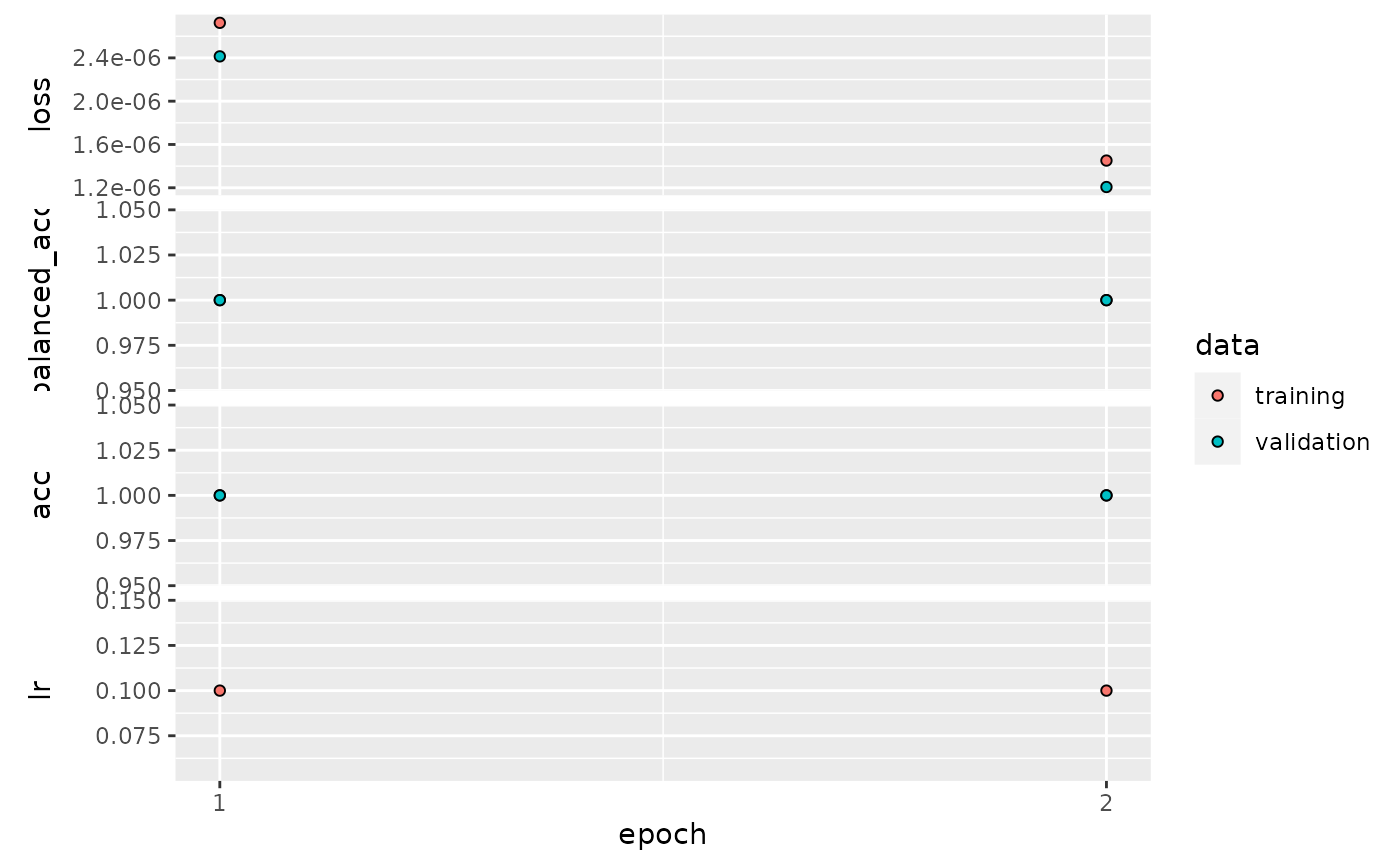
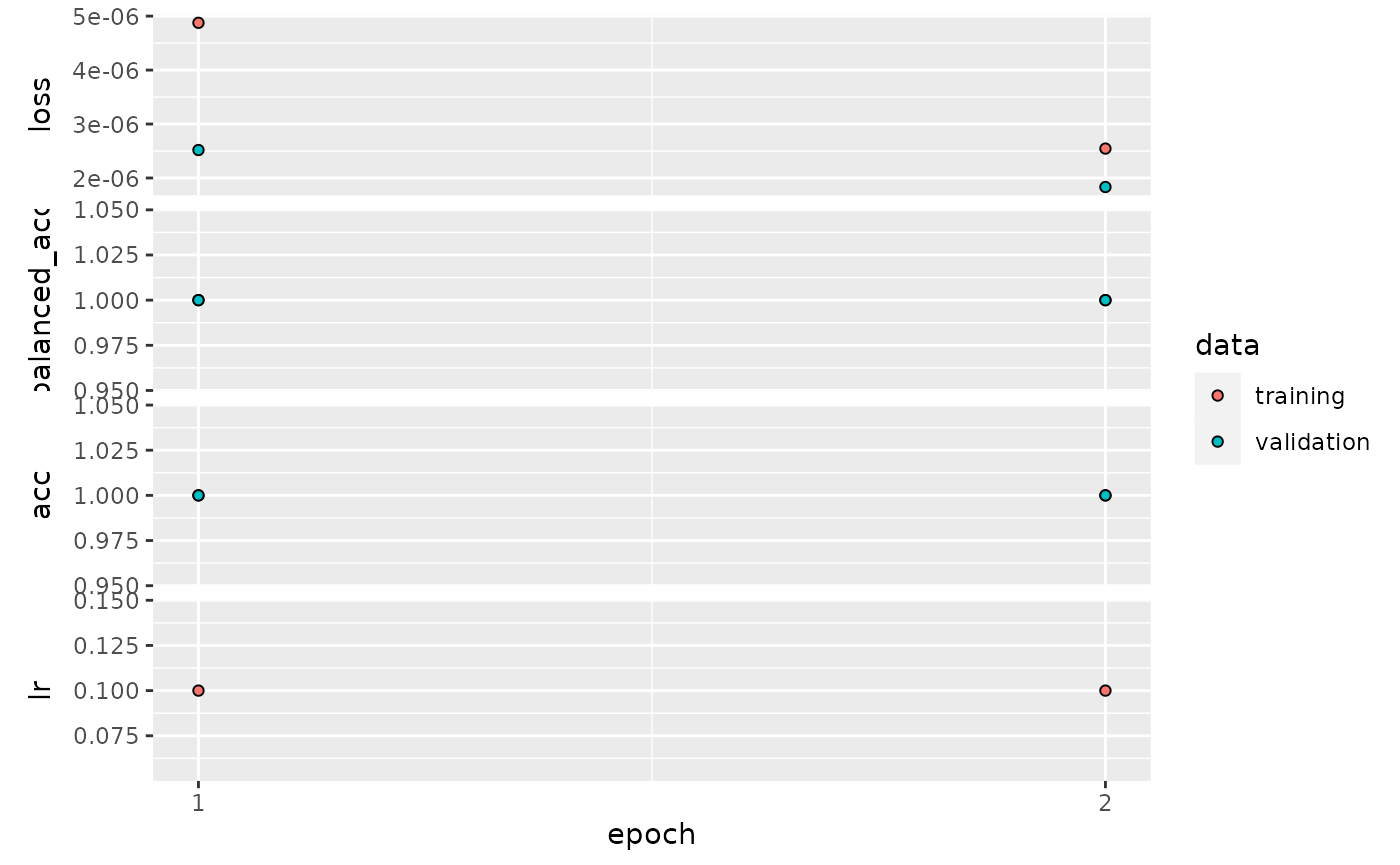
update documentation

diff --git a/docs/articles/getting_started.html b/docs/articles/getting_started.html
@@ -254,20 +254,20 @@ mark.out {
 <span><span class="co">## [[1]]$confusion_matrix</span></span>
 <span><span class="co">##             Truth</span></span>
 <span><span class="co">## Prediction   high_gc equal_dist</span></span>
-<span><span class="co">##   high_gc        381          2</span></span>
-<span><span class="co">##   equal_dist      18        397</span></span>
+<span><span class="co">##   high_gc        391         11</span></span>
+<span><span class="co">##   equal_dist       8        388</span></span>
 <span><span class="co">## </span></span>
 <span><span class="co">## [[1]]$accuracy</span></span>
-<span><span class="co">## [1] 0.9749373</span></span>
+<span><span class="co">## [1] 0.9761905</span></span>
 <span><span class="co">## </span></span>
 <span><span class="co">## [[1]]$categorical_crossentropy_loss</span></span>
-<span><span class="co">## [1] 0.09812773</span></span>
+<span><span class="co">## [1] 0.1279468</span></span>
 <span><span class="co">## </span></span>
 <span><span class="co">## [[1]]$AUC</span></span>
-<span><span class="co">## [1] 0.9986244</span></span>
+<span><span class="co">## [1] 0.9981596</span></span>
 <span><span class="co">## </span></span>
 <span><span class="co">## [[1]]$AUPRC</span></span>
-<span><span class="co">## [1] 0.9986564</span></span></code></pre>
+<span><span class="co">## [1] 0.9981117</span></span></code></pre>
 <p>We can check where our model made mistakes for the sequence with high GC content.</p>
 <div class="sourceCode" id="cb13"><pre class="downlit sourceCode r">
 <code class="sourceCode R"><span><span class="va">high_gc_file</span> <span class="op">&lt;-</span> <span class="fu">microseq</span><span class="fu">::</span><span class="fu"><a href="https://rdrr.io/pkg/microseq/man/readFasta.html" class="external-link">readFasta</a></span><span class="op">(</span><span class="fu"><a href="https://rdrr.io/r/base/list.files.html" class="external-link">list.files</a></span><span class="op">(</span><span class="va">val_1_dir</span>, full.names <span class="op">=</span> <span class="cn">TRUE</span><span class="op">)</span><span class="op">[</span><span class="fl">1</span><span class="op">]</span><span class="op">)</span></span>
@@ -302,34 +302,23 @@ mark.out {
 <span><span class="fu"><a href="https://rdrr.io/r/base/names.html" class="external-link">names</a></span><span class="op">(</span><span class="va">pred_df</span><span class="op">)</span> <span class="op">&lt;-</span> <span class="fu"><a href="https://rdrr.io/r/base/c.html" class="external-link">c</a></span><span class="op">(</span><span class="st">"high_gc_conf"</span>, <span class="st">"equal_dist_conf"</span>, <span class="st">"sample_end_position"</span><span class="op">)</span></span>
 <span><span class="fu"><a href="https://rdrr.io/r/utils/head.html" class="external-link">head</a></span><span class="op">(</span><span class="va">pred_df</span><span class="op">)</span></span></code></pre></div>
 <pre><code><span><span class="co">##   high_gc_conf equal_dist_conf sample_end_position</span></span>
-<span><span class="co">## 1         0.95            0.05                  50</span></span>
-<span><span class="co">## 2         0.96            0.04                  75</span></span>
-<span><span class="co">## 3         0.96            0.04                 100</span></span>
-<span><span class="co">## 4         0.96            0.04                 125</span></span>
-<span><span class="co">## 5         0.96            0.04                 150</span></span>
-<span><span class="co">## 6         0.97            0.03                 175</span></span></code></pre>
+<span><span class="co">## 1         0.83            0.17                  50</span></span>
+<span><span class="co">## 2         0.87            0.13                  75</span></span>
+<span><span class="co">## 3         0.88            0.12                 100</span></span>
+<span><span class="co">## 4         0.86            0.14                 125</span></span>
+<span><span class="co">## 5         0.88            0.12                 150</span></span>
+<span><span class="co">## 6         0.87            0.13                 175</span></span></code></pre>
 <div class="sourceCode" id="cb18"><pre class="downlit sourceCode r">
 <code class="sourceCode R"><span><span class="va">wrong_pred</span> <span class="op">&lt;-</span> <span class="va">pred_df</span> <span class="op"><a href="../reference/pipe.html">%&gt;%</a></span> <span class="fu">dplyr</span><span class="fu">::</span><span class="fu"><a href="https://dplyr.tidyverse.org/reference/filter.html" class="external-link">filter</a></span><span class="op">(</span><span class="va">high_gc_conf</span> <span class="op">&lt;</span> <span class="fl">0.5</span><span class="op">)</span></span>
 <span><span class="va">wrong_pred</span></span></code></pre></div>
-<pre><code><span><span class="co">##    high_gc_conf equal_dist_conf sample_end_position</span></span>
-<span><span class="co">## 1          0.13            0.87                 800</span></span>
-<span><span class="co">## 2          0.14            0.86                1075</span></span>
-<span><span class="co">## 3          0.21            0.79                1150</span></span>
-<span><span class="co">## 4          0.12            0.88                1175</span></span>
-<span><span class="co">## 5          0.44            0.56                1325</span></span>
-<span><span class="co">## 6          0.11            0.89                1950</span></span>
-<span><span class="co">## 7          0.08            0.92                2700</span></span>
-<span><span class="co">## 8          0.15            0.85                3000</span></span>
-<span><span class="co">## 9          0.23            0.77                3550</span></span>
-<span><span class="co">## 10         0.15            0.85                3700</span></span>
-<span><span class="co">## 11         0.17            0.83                4425</span></span>
-<span><span class="co">## 12         0.24            0.76                4675</span></span>
-<span><span class="co">## 13         0.18            0.82                5450</span></span>
-<span><span class="co">## 14         0.34            0.66                5550</span></span>
-<span><span class="co">## 15         0.47            0.53                6325</span></span>
-<span><span class="co">## 16         0.22            0.78                7550</span></span>
-<span><span class="co">## 17         0.15            0.85                7875</span></span>
-<span><span class="co">## 18         0.11            0.89                8225</span></span></code></pre>
+<pre><code><span><span class="co">##   high_gc_conf equal_dist_conf sample_end_position</span></span>
+<span><span class="co">## 1         0.11            0.89                 800</span></span>
+<span><span class="co">## 2         0.43            0.57                1150</span></span>
+<span><span class="co">## 3         0.04            0.96                2700</span></span>
+<span><span class="co">## 4         0.37            0.63                3000</span></span>
+<span><span class="co">## 5         0.03            0.97                3700</span></span>
+<span><span class="co">## 6         0.10            0.90                8225</span></span>
+<span><span class="co">## 7         0.49            0.51                9925</span></span></code></pre>
 <div class="sourceCode" id="cb20"><pre class="downlit sourceCode r">
 <code class="sourceCode R"><span><span class="kw">if</span> <span class="op">(</span><span class="fu"><a href="https://rdrr.io/r/base/nrow.html" class="external-link">nrow</a></span><span class="op">(</span><span class="va">wrong_pred</span><span class="op">)</span> <span class="op">==</span> <span class="fl">0</span><span class="op">)</span> <span class="op">{</span></span>
 <span>  <span class="fu"><a href="https://rdrr.io/r/base/print.html" class="external-link">print</a></span><span class="op">(</span><span class="st">"All predictions for high GC content class correct"</span><span class="op">)</span></span>
@@ -345,24 +334,13 @@ mark.out {
 <span>  </span>
 <span>  <span class="va">wrong_pred_seq</span></span>
 <span><span class="op">}</span></span></code></pre></div>
-<pre><code><span><span class="co">##  [1] "CCCACTTCGTGTCTATGCCGGACACGCCTCGATAGGCGCAGGCGATGGGC"</span></span>
-<span><span class="co">##  [2] "GGGCGCTGTATTGGACGGGCTGCAGCGTTCCCCGCACCACCGTTTTAGCT"</span></span>
-<span><span class="co">##  [3] "ACAGGAGAGACCCTCGGTTGCCGGCGACGCCGTGTCGTTGGTAGGCCCAC"</span></span>
-<span><span class="co">##  [4] "GACGCCGTGTCGTTGGTAGGCCCACTGGCCATCGCTGAGCTGCACTCGCC"</span></span>
-<span><span class="co">##  [5] "GCTCGCCCTCGCCGACTCGCTGTTCGTGTGACTGTCCGTTGGCGGGTGGC"</span></span>
-<span><span class="co">##  [6] "GCCCAACAAGGACGGTGAACTCCCCCGGGTACGGAAGAGGGTATGGCCGC"</span></span>
-<span><span class="co">##  [7] "AGGAGTCCTCCTAGAGCTCATGGGTTGAGACGTGCCTCGACGCCCGACCT"</span></span>
-<span><span class="co">##  [8] "CCCATTAGACCGTCCTGGCGGACACCCGTACGGGTGAGACCCTCCGGGTC"</span></span>
-<span><span class="co">##  [9] "GCATCGGGTTTCGAGCGCGGACCCCGTCGCAACTGCCCCATGCTGGTAGG"</span></span>
-<span><span class="co">## [10] "TGCTTATCATGGCCGCCCTGATGACGTGTCAGGGGGAGGACTGAGCGGGG"</span></span>
-<span><span class="co">## [11] "AGGGCTACCTGGCCGCCTGATAGGTGGAGACGTGTTCTGGCCGCCCTCGC"</span></span>
-<span><span class="co">## [12] "ATCCCGCATTCGCCGACGTCTCCACAGGAGGATCAGCGGGTCCGGGGCGA"</span></span>
-<span><span class="co">## [13] "CCAGTGCCGCCCATGCGTACTCGATGCAGACGGCCCGATCTCGCAGCTGC"</span></span>
-<span><span class="co">## [14] "GCCAGTGGCGTCGTAGTTAGCTCGGGGGCCTCGAGTGCCACGCCCGAATG"</span></span>
-<span><span class="co">## [15] "CCGCATCCCGATTGCCGGAAGGAGCGCCGGGCCATAGTCCTGCCTTAGGG"</span></span>
-<span><span class="co">## [16] "TTTGCGCCCCCTAAGGCACAGCCGCGACCCCAGGTTGGGAACCGCCGAAC"</span></span>
-<span><span class="co">## [17] "CTACGGAACGTGGCTCCGAGCATCGGCGCATCGGCATGTGTCTGCCGGCG"</span></span>
-<span><span class="co">## [18] "GGCGGGCCCTTCAATTCTATAAGCGACGCCGCCCTTGTCTGACGCTGGGC"</span></span></code></pre>
+<pre><code><span><span class="co">## [1] "CCCACTTCGTGTCTATGCCGGACACGCCTCGATAGGCGCAGGCGATGGGC"</span></span>
+<span><span class="co">## [2] "ACAGGAGAGACCCTCGGTTGCCGGCGACGCCGTGTCGTTGGTAGGCCCAC"</span></span>
+<span><span class="co">## [3] "AGGAGTCCTCCTAGAGCTCATGGGTTGAGACGTGCCTCGACGCCCGACCT"</span></span>
+<span><span class="co">## [4] "CCCATTAGACCGTCCTGGCGGACACCCGTACGGGTGAGACCCTCCGGGTC"</span></span>
+<span><span class="co">## [5] "TGCTTATCATGGCCGCCCTGATGACGTGTCAGGGGGAGGACTGAGCGGGG"</span></span>
+<span><span class="co">## [6] "GGCGGGCCCTTCAATTCTATAAGCGACGCCGCCCTTGTCTGACGCTGGGC"</span></span>
+<span><span class="co">## [7] "CACCGGCGTACCTGTTATAAAGTCGCCCGCGCTCCCCCGGGCGCACCACG"</span></span></code></pre>
 <p>We can check the nucleotide distribution of those sequences</p>
 <div class="sourceCode" id="cb22"><pre class="downlit sourceCode r">
 <code class="sourceCode R"><span><span class="va">l</span> <span class="op">&lt;-</span> <span class="fu"><a href="https://rdrr.io/r/base/list.html" class="external-link">list</a></span><span class="op">(</span><span class="op">)</span></span>
@@ -371,25 +349,14 @@ mark.out {
 <span><span class="op">}</span></span>
 <span><span class="va">dist_matrix</span> <span class="op">&lt;-</span> <span class="fu"><a href="https://rdrr.io/r/base/do.call.html" class="external-link">do.call</a></span><span class="op">(</span><span class="va">rbind</span>, <span class="va">l</span><span class="op">)</span></span>
 <span><span class="va">dist_matrix</span></span></code></pre></div>
-<pre><code><span><span class="co">##          A    C    G    T</span></span>
-<span><span class="co">##  [1,] 0.16 0.34 0.32 0.18</span></span>
-<span><span class="co">##  [2,] 0.12 0.32 0.32 0.24</span></span>
-<span><span class="co">##  [3,] 0.16 0.32 0.36 0.16</span></span>
-<span><span class="co">##  [4,] 0.12 0.36 0.32 0.20</span></span>
-<span><span class="co">##  [5,] 0.04 0.34 0.36 0.26</span></span>
-<span><span class="co">##  [6,] 0.24 0.30 0.36 0.10</span></span>
-<span><span class="co">##  [7,] 0.18 0.32 0.30 0.20</span></span>
-<span><span class="co">##  [8,] 0.16 0.38 0.30 0.16</span></span>
-<span><span class="co">##  [9,] 0.14 0.34 0.34 0.18</span></span>
-<span><span class="co">## [10,] 0.16 0.22 0.42 0.20</span></span>
-<span><span class="co">## [11,] 0.12 0.32 0.36 0.20</span></span>
-<span><span class="co">## [12,] 0.18 0.34 0.34 0.14</span></span>
-<span><span class="co">## [13,] 0.16 0.40 0.28 0.16</span></span>
-<span><span class="co">## [14,] 0.14 0.30 0.38 0.18</span></span>
-<span><span class="co">## [15,] 0.16 0.34 0.34 0.16</span></span>
-<span><span class="co">## [16,] 0.20 0.40 0.28 0.12</span></span>
-<span><span class="co">## [17,] 0.14 0.32 0.36 0.18</span></span>
-<span><span class="co">## [18,] 0.14 0.34 0.30 0.22</span></span></code></pre>
+<pre><code><span><span class="co">##         A    C    G    T</span></span>
+<span><span class="co">## [1,] 0.16 0.34 0.32 0.18</span></span>
+<span><span class="co">## [2,] 0.16 0.32 0.36 0.16</span></span>
+<span><span class="co">## [3,] 0.18 0.32 0.30 0.20</span></span>
+<span><span class="co">## [4,] 0.16 0.38 0.30 0.16</span></span>
+<span><span class="co">## [5,] 0.16 0.22 0.42 0.20</span></span>
+<span><span class="co">## [6,] 0.14 0.34 0.30 0.22</span></span>
+<span><span class="co">## [7,] 0.16 0.44 0.26 0.14</span></span></code></pre>
 <div class="sourceCode" id="cb24"><pre class="downlit sourceCode r">
 <code class="sourceCode R"><span><span class="va">df</span> <span class="op">&lt;-</span> <span class="fu"><a href="https://rdrr.io/r/base/data.frame.html" class="external-link">data.frame</a></span><span class="op">(</span>distribution <span class="op">=</span> <span class="fu"><a href="https://rdrr.io/r/base/vector.html" class="external-link">as.vector</a></span><span class="op">(</span><span class="va">dist_matrix</span><span class="op">)</span>,</span>
 <span>                 nt <span class="op">=</span> <span class="fu"><a href="https://rdrr.io/r/base/factor.html" class="external-link">factor</a></span><span class="op">(</span><span class="fu"><a href="https://rdrr.io/r/base/rep.html" class="external-link">rep</a></span><span class="op">(</span><span class="va">vocabulary</span>, each <span class="op">=</span> <span class="fu"><a href="https://rdrr.io/r/base/nrow.html" class="external-link">nrow</a></span><span class="op">(</span><span class="va">dist_matrix</span><span class="op">)</span><span class="op">)</span><span class="op">)</span>,</span>

diff --git a/docs/reference/integrated_gradients.html b/docs/reference/integrated_gradients.html
@@ -155,26 +155,26 @@ gradient repeatedly for different shuffles). Final result is average of <code>nu
 <span class="r-in"><span>  target_class_idx <span class="op">=</span> <span class="fl">3</span>,</span></span>
 <span class="r-in"><span>  model <span class="op">=</span> <span class="va">model</span><span class="op">)</span></span></span>
 <span class="r-out co"><span class="r-pr">#&gt;</span> tf.Tensor(</span>
-<span class="r-out co"><span class="r-pr">#&gt;</span> [[ 0.00000000e+00 -8.96093989e-05  0.00000000e+00 -0.00000000e+00]</span>
-<span class="r-out co"><span class="r-pr">#&gt;</span>  [ 0.00000000e+00 -1.09568966e-04  0.00000000e+00 -0.00000000e+00]</span>
-<span class="r-out co"><span class="r-pr">#&gt;</span>  [ 0.00000000e+00 -0.00000000e+00  0.00000000e+00 -1.41869619e-04]</span>
-<span class="r-out co"><span class="r-pr">#&gt;</span>  [ 0.00000000e+00 -0.00000000e+00  0.00000000e+00 -1.67043152e-04]</span>
-<span class="r-out co"><span class="r-pr">#&gt;</span>  [ 0.00000000e+00 -2.18142974e-04  0.00000000e+00 -0.00000000e+00]</span>
-<span class="r-out co"><span class="r-pr">#&gt;</span>  [ 0.00000000e+00 -2.72801495e-04  0.00000000e+00 -0.00000000e+00]</span>
-<span class="r-out co"><span class="r-pr">#&gt;</span>  [ 2.57800159e-04 -0.00000000e+00  0.00000000e+00 -0.00000000e+00]</span>
-<span class="r-out co"><span class="r-pr">#&gt;</span>  [ 0.00000000e+00 -4.61702148e-04  0.00000000e+00 -0.00000000e+00]</span>
-<span class="r-out co"><span class="r-pr">#&gt;</span>  [ 0.00000000e+00 -5.87639573e-04  0.00000000e+00 -0.00000000e+00]</span>
-<span class="r-out co"><span class="r-pr">#&gt;</span>  [ 0.00000000e+00 -7.55793182e-04  0.00000000e+00 -0.00000000e+00]</span>
-<span class="r-out co"><span class="r-pr">#&gt;</span>  [ 0.00000000e+00 -9.74385766e-04  0.00000000e+00 -0.00000000e+00]</span>
-<span class="r-out co"><span class="r-pr">#&gt;</span>  [ 6.97121606e-04 -0.00000000e+00  0.00000000e+00 -0.00000000e+00]</span>
-<span class="r-out co"><span class="r-pr">#&gt;</span>  [ 0.00000000e+00 -0.00000000e+00  1.84338802e-04 -0.00000000e+00]</span>
-<span class="r-out co"><span class="r-pr">#&gt;</span>  [ 0.00000000e+00 -0.00000000e+00  3.60645063e-05 -0.00000000e+00]</span>
-<span class="r-out co"><span class="r-pr">#&gt;</span>  [ 0.00000000e+00 -0.00000000e+00  0.00000000e+00 -3.32644966e-04]</span>
-<span class="r-out co"><span class="r-pr">#&gt;</span>  [ 0.00000000e+00 -3.14943818e-03  0.00000000e+00 -0.00000000e+00]</span>
-<span class="r-out co"><span class="r-pr">#&gt;</span>  [ 0.00000000e+00 -0.00000000e+00  2.95820617e-04 -0.00000000e+00]</span>
-<span class="r-out co"><span class="r-pr">#&gt;</span>  [ 0.00000000e+00 -0.00000000e+00  1.57409022e-03  0.00000000e+00]</span>
-<span class="r-out co"><span class="r-pr">#&gt;</span>  [ 0.00000000e+00 -0.00000000e+00  0.00000000e+00  1.08085584e-03]</span>
-<span class="r-out co"><span class="r-pr">#&gt;</span>  [ 0.00000000e+00 -3.05674737e-03  0.00000000e+00 -0.00000000e+00]], shape=(20, 4), dtype=float32)</span>
+<span class="r-out co"><span class="r-pr">#&gt;</span> [[ 0.0000000e+00  1.3211917e-04  0.0000000e+00  0.0000000e+00]</span>
+<span class="r-out co"><span class="r-pr">#&gt;</span>  [ 0.0000000e+00  1.3289637e-04  0.0000000e+00  0.0000000e+00]</span>
+<span class="r-out co"><span class="r-pr">#&gt;</span>  [ 0.0000000e+00  0.0000000e+00  0.0000000e+00  3.2176633e-04]</span>
+<span class="r-out co"><span class="r-pr">#&gt;</span>  [ 0.0000000e+00  0.0000000e+00  0.0000000e+00  3.8359544e-04]</span>
+<span class="r-out co"><span class="r-pr">#&gt;</span>  [ 0.0000000e+00  5.7247606e-05  0.0000000e+00  0.0000000e+00]</span>
+<span class="r-out co"><span class="r-pr">#&gt;</span>  [-0.0000000e+00 -1.7202010e-05  0.0000000e+00  0.0000000e+00]</span>
+<span class="r-out co"><span class="r-pr">#&gt;</span>  [-2.2737350e-04 -0.0000000e+00  0.0000000e+00  0.0000000e+00]</span>
+<span class="r-out co"><span class="r-pr">#&gt;</span>  [-0.0000000e+00 -3.0716651e-04  0.0000000e+00  0.0000000e+00]</span>
+<span class="r-out co"><span class="r-pr">#&gt;</span>  [-0.0000000e+00 -5.2755536e-04  0.0000000e+00  0.0000000e+00]</span>
+<span class="r-out co"><span class="r-pr">#&gt;</span>  [-0.0000000e+00 -8.3822059e-04  0.0000000e+00  0.0000000e+00]</span>
+<span class="r-out co"><span class="r-pr">#&gt;</span>  [-0.0000000e+00 -1.2655940e-03  0.0000000e+00  0.0000000e+00]</span>
+<span class="r-out co"><span class="r-pr">#&gt;</span>  [-2.6722241e-03 -0.0000000e+00  0.0000000e+00  0.0000000e+00]</span>
+<span class="r-out co"><span class="r-pr">#&gt;</span>  [-0.0000000e+00 -0.0000000e+00  4.5686015e-03  0.0000000e+00]</span>
+<span class="r-out co"><span class="r-pr">#&gt;</span>  [-0.0000000e+00 -0.0000000e+00  6.0295500e-03  0.0000000e+00]</span>
+<span class="r-out co"><span class="r-pr">#&gt;</span>  [-0.0000000e+00 -0.0000000e+00  0.0000000e+00  2.6757992e-03]</span>
+<span class="r-out co"><span class="r-pr">#&gt;</span>  [-0.0000000e+00 -5.8440696e-03  0.0000000e+00  0.0000000e+00]</span>
+<span class="r-out co"><span class="r-pr">#&gt;</span>  [-0.0000000e+00 -0.0000000e+00  1.3776042e-02  0.0000000e+00]</span>
+<span class="r-out co"><span class="r-pr">#&gt;</span>  [-0.0000000e+00 -0.0000000e+00  1.8328877e-02  0.0000000e+00]</span>
+<span class="r-out co"><span class="r-pr">#&gt;</span>  [-0.0000000e+00 -0.0000000e+00  0.0000000e+00  2.4353699e-03]</span>
+<span class="r-out co"><span class="r-pr">#&gt;</span>  [-0.0000000e+00 -9.4884196e-03  0.0000000e+00 -0.0000000e+00]], shape=(20, 4), dtype=float32)</span>
 </code></pre></div>
     </div>
   </div>

diff --git a/docs/reference/load_prediction.html b/docs/reference/load_prediction.html
@@ -155,25 +155,25 @@
 <span class="r-out co"><span class="r-pr">#&gt;</span> states matrix has 19 rows and 2 columns </span>
 <span class="r-out co"><span class="r-pr">#&gt;</span> $states</span>
 <span class="r-out co"><span class="r-pr">#&gt;</span>       [,1] [,2]</span>
-<span class="r-out co"><span class="r-pr">#&gt;</span>  [1,] 0.40 0.60</span>
-<span class="r-out co"><span class="r-pr">#&gt;</span>  [2,] 0.41 0.59</span>
-<span class="r-out co"><span class="r-pr">#&gt;</span>  [3,] 0.41 0.59</span>
-<span class="r-out co"><span class="r-pr">#&gt;</span>  [4,] 0.42 0.58</span>
-<span class="r-out co"><span class="r-pr">#&gt;</span>  [5,] 0.40 0.60</span>
-<span class="r-out co"><span class="r-pr">#&gt;</span>  [6,] 0.44 0.56</span>
-<span class="r-out co"><span class="r-pr">#&gt;</span>  [7,] 0.40 0.60</span>
-<span class="r-out co"><span class="r-pr">#&gt;</span>  [8,] 0.40 0.60</span>
-<span class="r-out co"><span class="r-pr">#&gt;</span>  [9,] 0.40 0.60</span>
-<span class="r-out co"><span class="r-pr">#&gt;</span> [10,] 0.39 0.61</span>
-<span class="r-out co"><span class="r-pr">#&gt;</span> [11,] 0.41 0.59</span>
-<span class="r-out co"><span class="r-pr">#&gt;</span> [12,] 0.39 0.61</span>
-<span class="r-out co"><span class="r-pr">#&gt;</span> [13,] 0.40 0.60</span>
-<span class="r-out co"><span class="r-pr">#&gt;</span> [14,] 0.42 0.58</span>
-<span class="r-out co"><span class="r-pr">#&gt;</span> [15,] 0.39 0.61</span>
-<span class="r-out co"><span class="r-pr">#&gt;</span> [16,] 0.38 0.62</span>
-<span class="r-out co"><span class="r-pr">#&gt;</span> [17,] 0.39 0.61</span>
-<span class="r-out co"><span class="r-pr">#&gt;</span> [18,] 0.43 0.57</span>
-<span class="r-out co"><span class="r-pr">#&gt;</span> [19,] 0.43 0.57</span>
+<span class="r-out co"><span class="r-pr">#&gt;</span>  [1,] 0.48 0.52</span>
+<span class="r-out co"><span class="r-pr">#&gt;</span>  [2,] 0.48 0.52</span>
+<span class="r-out co"><span class="r-pr">#&gt;</span>  [3,] 0.48 0.52</span>
+<span class="r-out co"><span class="r-pr">#&gt;</span>  [4,] 0.49 0.51</span>
+<span class="r-out co"><span class="r-pr">#&gt;</span>  [5,] 0.47 0.53</span>
+<span class="r-out co"><span class="r-pr">#&gt;</span>  [6,] 0.53 0.47</span>
+<span class="r-out co"><span class="r-pr">#&gt;</span>  [7,] 0.50 0.50</span>
+<span class="r-out co"><span class="r-pr">#&gt;</span>  [8,] 0.48 0.52</span>
+<span class="r-out co"><span class="r-pr">#&gt;</span>  [9,] 0.46 0.54</span>
+<span class="r-out co"><span class="r-pr">#&gt;</span> [10,] 0.48 0.52</span>
+<span class="r-out co"><span class="r-pr">#&gt;</span> [11,] 0.53 0.47</span>
+<span class="r-out co"><span class="r-pr">#&gt;</span> [12,] 0.48 0.52</span>
+<span class="r-out co"><span class="r-pr">#&gt;</span> [13,] 0.48 0.52</span>
+<span class="r-out co"><span class="r-pr">#&gt;</span> [14,] 0.49 0.51</span>
+<span class="r-out co"><span class="r-pr">#&gt;</span> [15,] 0.47 0.53</span>
+<span class="r-out co"><span class="r-pr">#&gt;</span> [16,] 0.47 0.53</span>
+<span class="r-out co"><span class="r-pr">#&gt;</span> [17,] 0.50 0.50</span>
+<span class="r-out co"><span class="r-pr">#&gt;</span> [18,] 0.53 0.47</span>
+<span class="r-out co"><span class="r-pr">#&gt;</span> [19,] 0.51 0.49</span>
 <span class="r-out co"><span class="r-pr">#&gt;</span> </span>
 </code></pre></div>
     </div>

diff --git a/docs/reference/generator_dummy.html b/docs/reference/generator_dummy.html
@@ -137,18 +137,18 @@
 <span class="r-out co"><span class="r-pr">#&gt;</span> [1] 12  5</span>
 <span class="r-in"><span><span class="fu"><a href="https://rdrr.io/r/stats/predict.html" class="external-link">predict</a></span><span class="op">(</span><span class="va">model</span>, <span class="va">x</span><span class="op">)</span>   </span></span>
 <span class="r-out co"><span class="r-pr">#&gt;</span>            [,1]      [,2]      [,3]      [,4]      [,5]</span>
-<span class="r-out co"><span class="r-pr">#&gt;</span>  [1,] 0.1796829 0.2185390 0.1937632 0.2069892 0.2010256</span>
-<span class="r-out co"><span class="r-pr">#&gt;</span>  [2,] 0.2053513 0.2024402 0.1683613 0.2283057 0.1955416</span>
-<span class="r-out co"><span class="r-pr">#&gt;</span>  [3,] 0.1984399 0.2192000 0.1826797 0.1924737 0.2072066</span>
-<span class="r-out co"><span class="r-pr">#&gt;</span>  [4,] 0.2021361 0.1966939 0.1935709 0.2077392 0.1998599</span>
-<span class="r-out co"><span class="r-pr">#&gt;</span>  [5,] 0.2095055 0.1777093 0.1699265 0.2561354 0.1867234</span>
-<span class="r-out co"><span class="r-pr">#&gt;</span>  [6,] 0.1865107 0.1911625 0.2213244 0.2044739 0.1965285</span>
-<span class="r-out co"><span class="r-pr">#&gt;</span>  [7,] 0.1898267 0.2103298 0.1957836 0.1987927 0.2052672</span>
-<span class="r-out co"><span class="r-pr">#&gt;</span>  [8,] 0.1682761 0.2223555 0.2162906 0.1903552 0.2027227</span>
-<span class="r-out co"><span class="r-pr">#&gt;</span>  [9,] 0.2017967 0.1756128 0.2136648 0.2157693 0.1931565</span>
-<span class="r-out co"><span class="r-pr">#&gt;</span> [10,] 0.1804113 0.2285127 0.2055056 0.1693884 0.2161819</span>
-<span class="r-out co"><span class="r-pr">#&gt;</span> [11,] 0.1676185 0.2165461 0.2359843 0.1828711 0.1969801</span>
-<span class="r-out co"><span class="r-pr">#&gt;</span> [12,] 0.2049070 0.1429176 0.2421217 0.2479026 0.1621510</span>
+<span class="r-out co"><span class="r-pr">#&gt;</span>  [1,] 0.2044636 0.1877068 0.1924715 0.2139883 0.2013697</span>
+<span class="r-out co"><span class="r-pr">#&gt;</span>  [2,] 0.1889809 0.2078846 0.2098690 0.2098302 0.1834353</span>
+<span class="r-out co"><span class="r-pr">#&gt;</span>  [3,] 0.1865995 0.1926038 0.2211905 0.1977493 0.2018569</span>
+<span class="r-out co"><span class="r-pr">#&gt;</span>  [4,] 0.1985228 0.1944038 0.2023886 0.2031656 0.2015194</span>
+<span class="r-out co"><span class="r-pr">#&gt;</span>  [5,] 0.1815961 0.2037682 0.2237362 0.2035301 0.1873695</span>
+<span class="r-out co"><span class="r-pr">#&gt;</span>  [6,] 0.2179639 0.1812455 0.1817200 0.1938337 0.2252369</span>
+<span class="r-out co"><span class="r-pr">#&gt;</span>  [7,] 0.2205951 0.1917129 0.1798316 0.1849036 0.2229569</span>
+<span class="r-out co"><span class="r-pr">#&gt;</span>  [8,] 0.2406656 0.1814793 0.1581588 0.1869361 0.2327602</span>
+<span class="r-out co"><span class="r-pr">#&gt;</span>  [9,] 0.2107342 0.1837063 0.1903002 0.1940943 0.2211650</span>
+<span class="r-out co"><span class="r-pr">#&gt;</span> [10,] 0.1901500 0.1963590 0.2148726 0.1962201 0.2023984</span>
+<span class="r-out co"><span class="r-pr">#&gt;</span> [11,] 0.2278178 0.1856678 0.1729784 0.1818637 0.2316724</span>
+<span class="r-out co"><span class="r-pr">#&gt;</span> [12,] 0.2228305 0.1951114 0.1774031 0.1799268 0.2247283</span>
 </code></pre></div>
     </div>
   </div>

diff --git a/docs/reference/evaluate_model.html b/docs/reference/evaluate_model.html
@@ -265,16 +265,16 @@ and else an integer.</p></dd>
 <span class="r-out co"><span class="r-pr">#&gt;</span> [[1]]$confusion_matrix</span>
 <span class="r-out co"><span class="r-pr">#&gt;</span>           Truth</span>
 <span class="r-out co"><span class="r-pr">#&gt;</span> Prediction a c g t</span>
-<span class="r-out co"><span class="r-pr">#&gt;</span>          a 0 0 0 0</span>
-<span class="r-out co"><span class="r-pr">#&gt;</span>          c 0 0 0 0</span>
-<span class="r-out co"><span class="r-pr">#&gt;</span>          g 3 4 6 2</span>
-<span class="r-out co"><span class="r-pr">#&gt;</span>          t 0 0 0 0</span>
+<span class="r-out co"><span class="r-pr">#&gt;</span>          a 1 0 1 2</span>
+<span class="r-out co"><span class="r-pr">#&gt;</span>          c 0 1 1 0</span>
+<span class="r-out co"><span class="r-pr">#&gt;</span>          g 1 2 2 0</span>
+<span class="r-out co"><span class="r-pr">#&gt;</span>          t 1 1 2 0</span>
 <span class="r-out co"><span class="r-pr">#&gt;</span> </span>
 <span class="r-out co"><span class="r-pr">#&gt;</span> [[1]]$accuracy</span>
-<span class="r-out co"><span class="r-pr">#&gt;</span> [1] 0.4</span>
+<span class="r-out co"><span class="r-pr">#&gt;</span> [1] 0.2666667</span>
 <span class="r-out co"><span class="r-pr">#&gt;</span> </span>
 <span class="r-out co"><span class="r-pr">#&gt;</span> [[1]]$categorical_crossentropy_loss</span>
-<span class="r-out co"><span class="r-pr">#&gt;</span> [1] 1.347388</span>
+<span class="r-out co"><span class="r-pr">#&gt;</span> [1] 1.386658</span>
 <span class="r-out co"><span class="r-pr">#&gt;</span> </span>
 <span class="r-out co"><span class="r-pr">#&gt;</span> [[1]]$AUC</span>
 <span class="r-out co"><span class="r-pr">#&gt;</span> NULL</span>

diff --git a/docs/articles/training_types.html b/docs/articles/training_types.html
@@ -373,10 +373,10 @@ mark.out {
 <span><span class="op">)</span></span></code></pre></div>
 <pre><code><span><span class="co">## </span></span>
 <span><span class="co">## Final epoch (plot to see history):</span></span>
-<span><span class="co">##             loss: 0.00122</span></span>
+<span><span class="co">##             loss: 0.00283</span></span>
 <span><span class="co">##     balanced_acc: 1</span></span>
 <span><span class="co">##              acc: 1</span></span>
-<span><span class="co">##         val_loss: 0.00008419</span></span>
+<span><span class="co">##         val_loss: 0.0001782</span></span>
 <span><span class="co">## val_balanced_acc: 1</span></span>
 <span><span class="co">##          val_acc: 1</span></span>
 <span><span class="co">##               lr: 0.1</span></span></code></pre>
@@ -410,10 +410,10 @@ mark.out {
 <span><span class="op">)</span></span></code></pre></div>
 <pre><code><span><span class="co">## </span></span>
 <span><span class="co">## Final epoch (plot to see history):</span></span>
-<span><span class="co">##             loss: 0.00000715</span></span>
+<span><span class="co">##             loss: 0.00001456</span></span>
 <span><span class="co">##     balanced_acc: 1</span></span>
 <span><span class="co">##              acc: 1</span></span>
-<span><span class="co">##         val_loss: 0.000003755</span></span>
+<span><span class="co">##         val_loss: 0.000006497</span></span>
 <span><span class="co">## val_balanced_acc: 1</span></span>
 <span><span class="co">##          val_acc: 1</span></span>
 <span><span class="co">##               lr: 0.1</span></span></code></pre>
